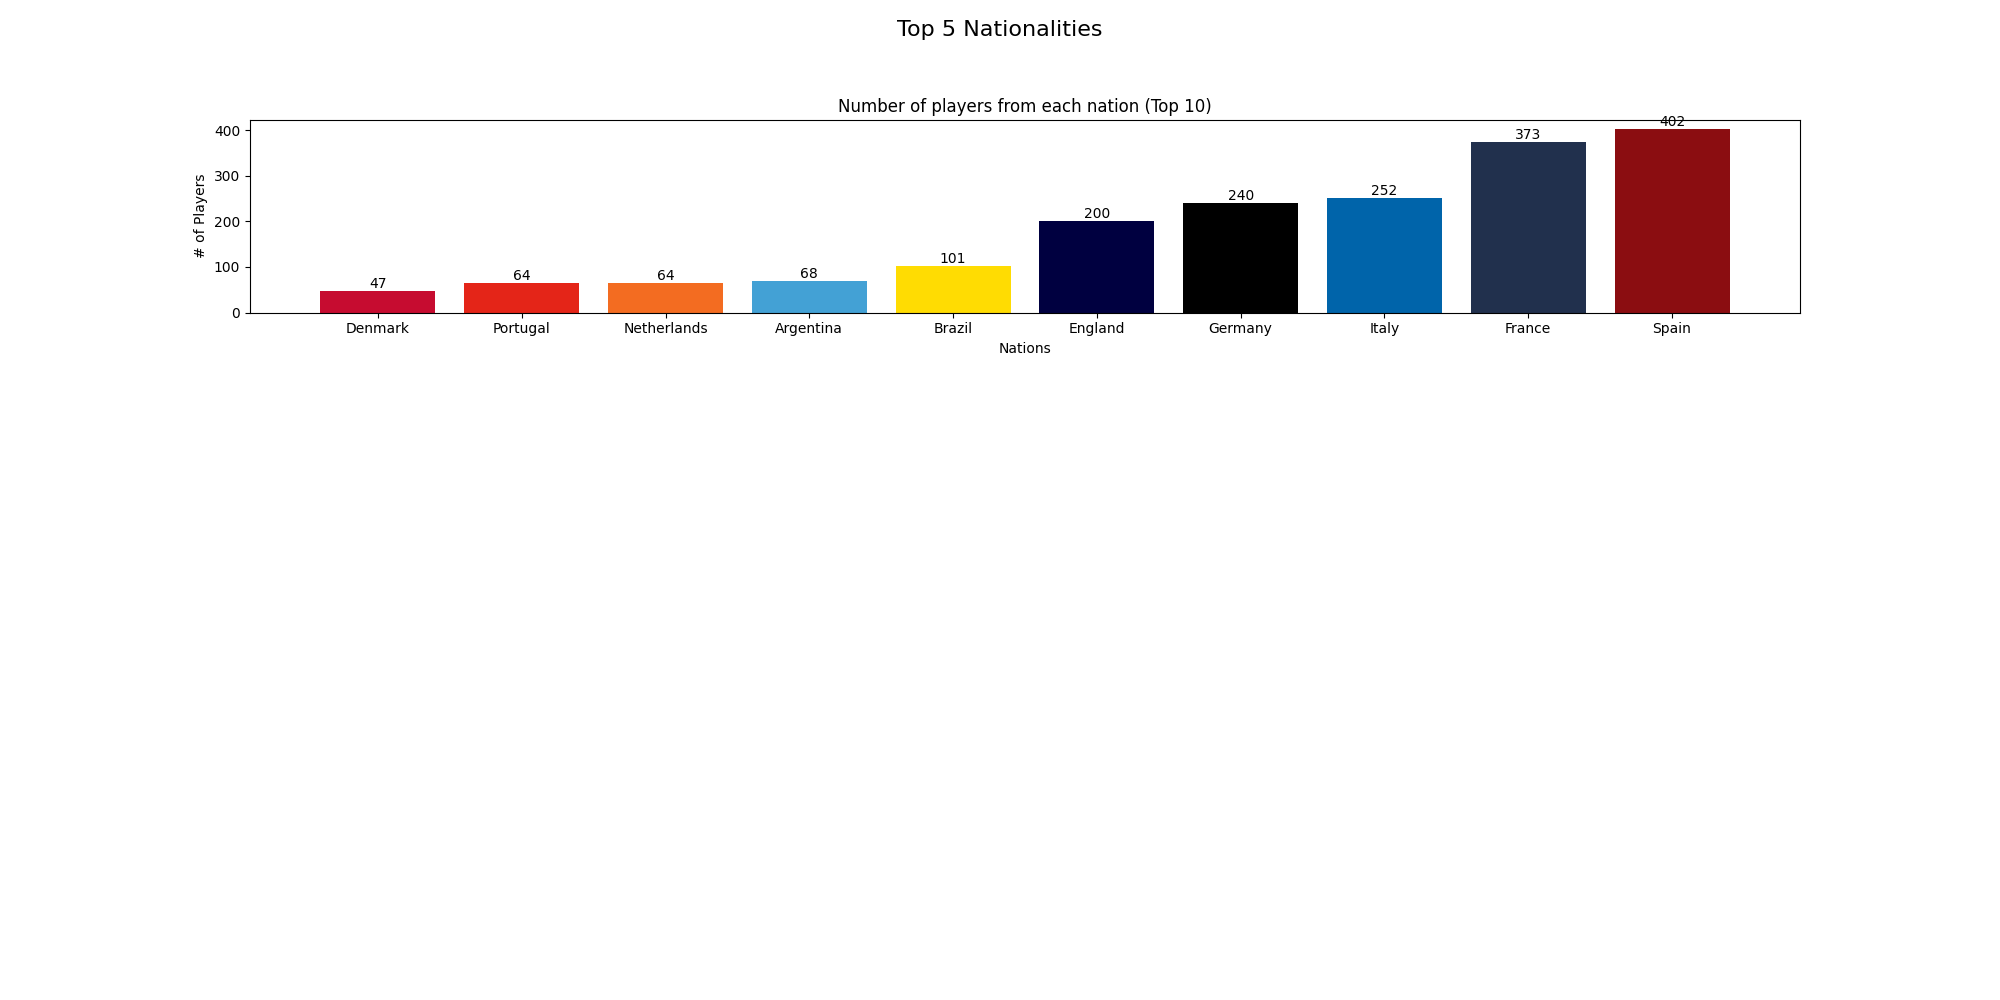
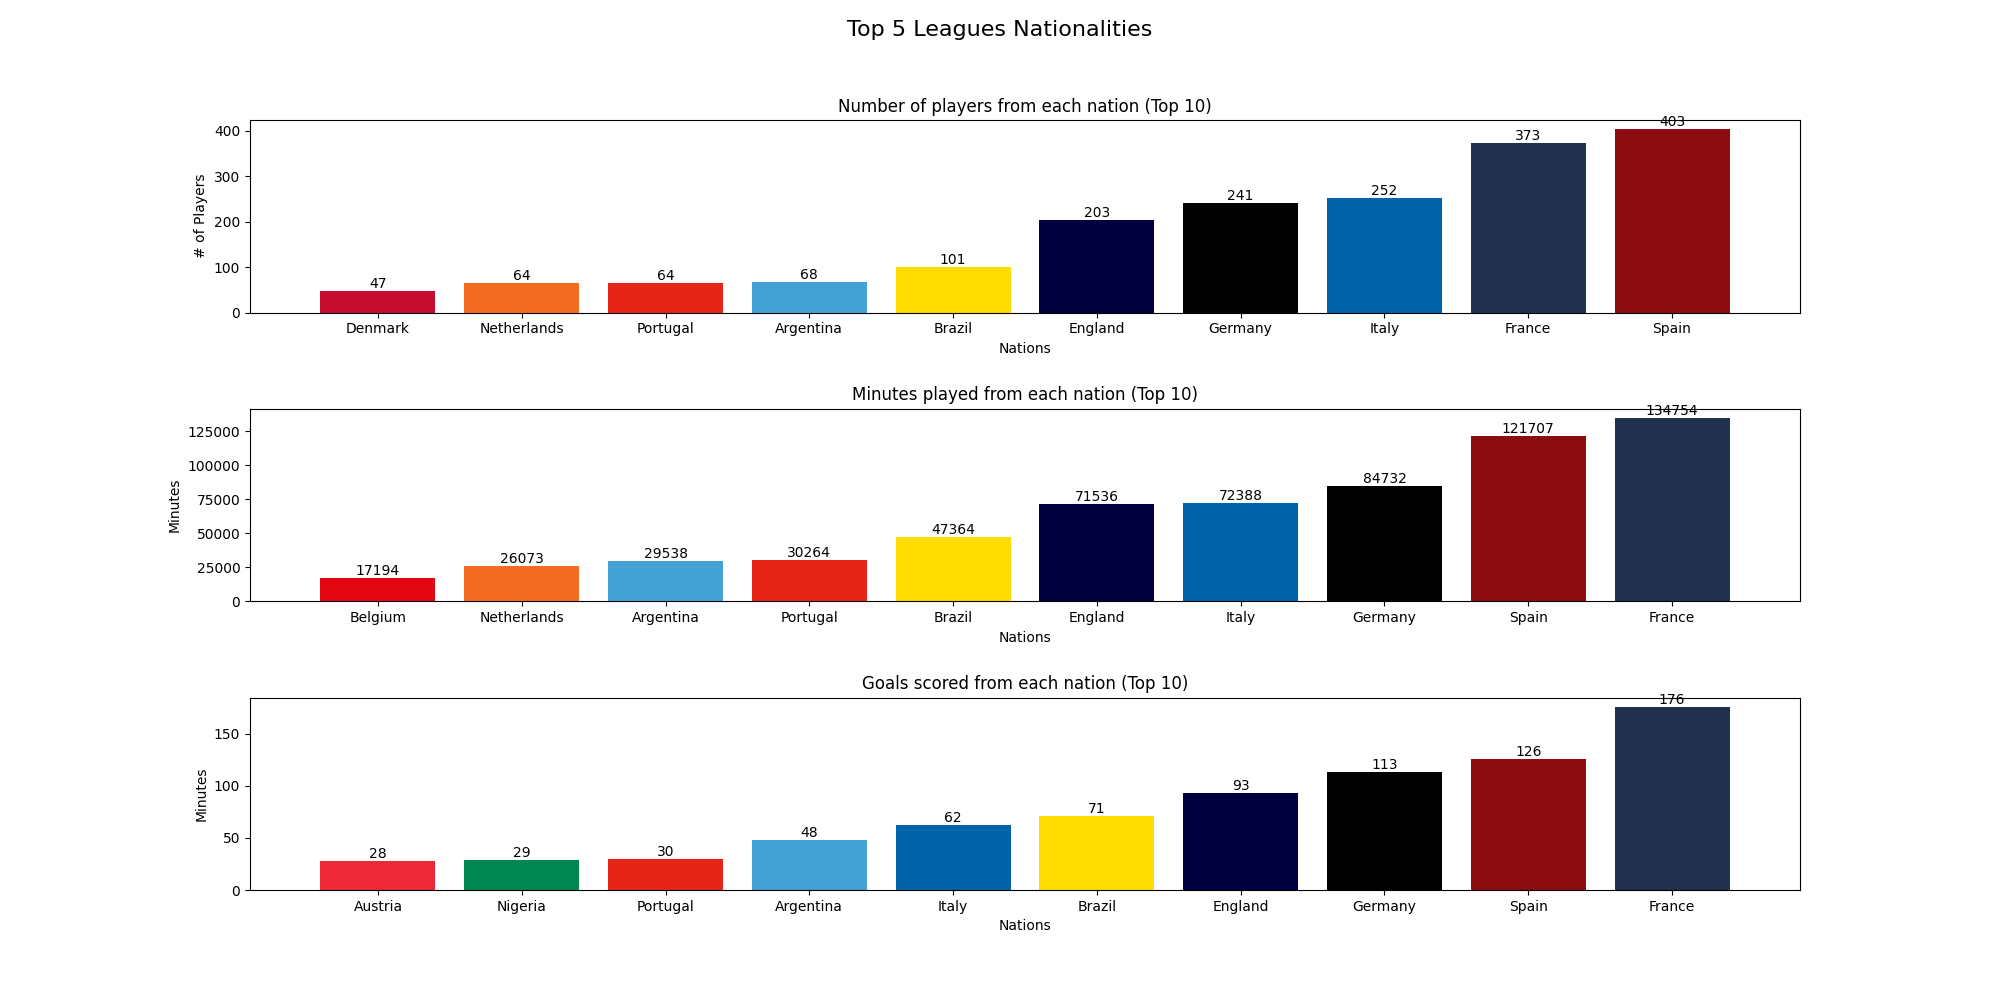
Finalised combined top 5

diff --git a/nationalities.py b/nationalities.py
@@ -119,6 +119,19 @@ def nations_played(urls):
     
     for url in urls:
         competition = urls[url]
+        
+        if competition == 'epl':
+            comp_title = 'Premier League'
+        if competition == 'laliga':
+            comp_title = 'La Liga'
+        if competition == 'bundesliga':
+            comp_title = 'Bundesliga'
+        if competition == 'seriea':
+            comp_title = 'Serie A'
+        if competition == 'ligue1':
+            comp_title = 'Ligue 1'
+        if competition == 'ucl':
+            comp_title = 'Uefa Champions League'
 
         html = pd.read_html(url, header=0)
         df = html[0]
@@ -153,20 +166,6 @@ def nations_played(urls):
 
         df_times = df_times.tail(10)
         
-
-        if competition == 'epl':
-            comp_title = 'Premier League'
-        if competition == 'laliga':
-            comp_title = 'La Liga'
-        if competition == 'bundesliga':
-            comp_title = 'Bundesliga'
-        if competition == 'seriea':
-            comp_title = 'Serie A'
-        if competition == 'ligue1':
-            comp_title = 'Ligue 1'
-        if competition == 'ucl':
-            comp_title = 'Uefa Champions League'
-        
         fig = plt.figure(figsize=(20, 10))
         fig.subplots_adjust(hspace=0.5)
         gs = GridSpec(nrows=3, ncols=1)
@@ -192,6 +191,9 @@ def nations_played(urls):
         df.drop(df[df['Goals'] <= 0].index, inplace = True)
         df = df.astype({'Goals':'int'})
 
+        if competition != 'ucl':
+            df_total_goals = pd.concat([df_total_goals, df], ignore_index=True)
+
         df_sum = df.groupby('Nation')['Goals'].sum().reset_index()
         df_sum = df_sum.sort_values(by=['Goals'])
         df_sum = df_sum.tail(10)
@@ -209,21 +211,16 @@ def nations_played(urls):
         ax2.set_ylabel('Goals')
 
         fig.savefig(f'images/{competition}-nations.png')
-        # plt.show()
-    
-    # print(df_total_players)
-    
-    df_total_players = df_total_players.groupby('Nation', as_index=False).sum()
-    df_total_players = df_total_players.sort_values(by=["# Players"])
-    # print(df_total_players)
-    df_total_players = df_total_players.tail(10)
-    
-    # Iterate on rows
+        plt.show()
 
     fig = plt.figure(figsize=(20, 10))
     fig.subplots_adjust(hspace=0.5)
     gs = GridSpec(nrows=3, ncols=1)
-    fig.suptitle(f'Top 5 Nationalities', fontsize=16)
+    fig.suptitle(f'Top 5 Leagues Nationalities', fontsize=16)
+
+    df_total_players = df_total_players.groupby('Nation', as_index=False).sum()
+    df_total_players = df_total_players.sort_values(by=["# Players"])
+    df_total_players = df_total_players.tail(10)
     
     ax0 = fig.add_subplot(gs[0, 0])
     bars = ax0.bar(df_total_players["Nation"], df_total_players["# Players"], color=team_colours(df_total_players["Nation"]))
@@ -231,10 +228,37 @@ def nations_played(urls):
     ax0.set_title('Number of players from each nation (Top 10)')
     ax0.set_xlabel('Nations')
     ax0.set_ylabel('# of Players')
+
+    df_total_times = df_total_times.groupby('Nation', as_index=False).sum()
+    df_total_times = df_total_times.sort_values(by=["Min"])
+    df_total_times = df_total_times.tail(10)
+
+    ax1 = fig.add_subplot(gs[1, 0])
+    bars = ax1.bar(df_total_times["Nation"], df_total_times["Min"], color=team_colours(df_total_times["Nation"]))
+    ax1.bar_label(bars)
+    ax1.set_title('Minutes played from each nation (Top 10)')
+    ax1.set_xlabel('Nations')
+    ax1.set_ylabel('Minutes')
+
+    df_total_goals = df_total_goals.groupby('Nation', as_index=False).sum()
+    df_total_goals = df_total_goals.sort_values(by=["Goals"])
+    df_total_goals = df_total_goals.tail(10)
+
+    for i, row in df_total_goals.iterrows():
+            country = dict_conversion(df_total_goals.at[i,'Nation'])
+            if country:
+                df_total_goals.at[i,'Nation'] = country
+
+    ax2 = fig.add_subplot(gs[2, 0])
+    bars = ax2.bar(df_total_goals["Nation"], df_total_goals["Goals"], color=team_colours(df_total_goals["Nation"]))
+    ax2.bar_label(bars)
+    ax2.set_title('Goals scored from each nation (Top 10)')
+    ax2.set_xlabel('Nations')
+    ax2.set_ylabel('Minutes')
+    
     fig.savefig(f'images/combined-number-nations.png')
     plt.show()
 
-# Combined top 5 leagues
 
 def main():
     pl_url = 'https://fbref.com/en/comps/9/nations/Premier-League-Nationalities'
@@ -252,13 +276,6 @@ def main():
                     cl_url: 'ucl'}
     
     nations_played(league_urls)
-    
-    # nations_played(pl_url, 'epl')
-    # nations_played(liga_url, 'laliga')
-    # nations_played(bundesliga_url, 'bundesliga')
-    # nations_played(italy_url, 'seriea')
-    # nations_played(french_url, 'ligue1')
-    # nations_played(cl_url, 'ucl')
 
 
 main()
